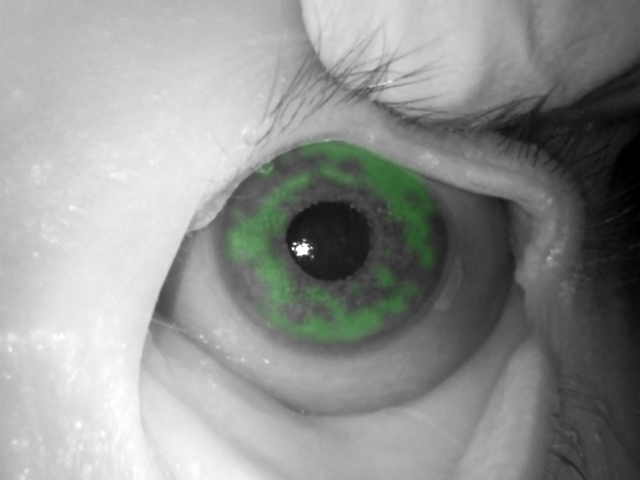
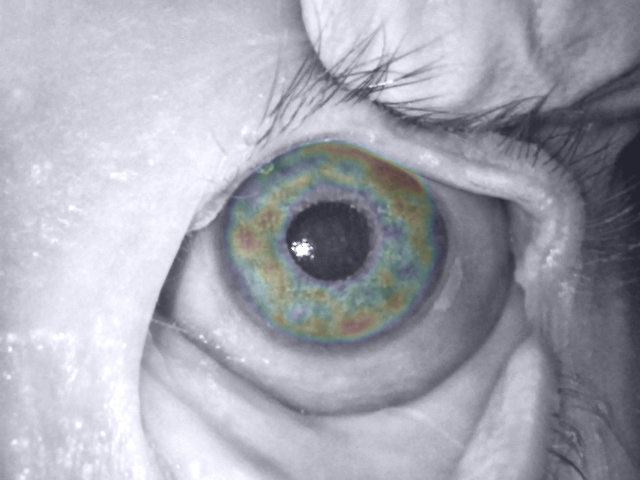
visualization finished

diff --git a/src-python/modules/irisRecognition.py b/src-python/modules/irisRecognition.py
@@ -41,6 +41,7 @@ class irisRecognition(object):
         self.pupil_iris_max_ratio = cfg["pupil_iris_max_ratio"]
         self.max_pupil_iris_shift = cfg["max_pupil_iris_shift"]
         self.visMinAgreedBits = cfg["vis_min_agreed_bits"]
+        self.vis_mode = cfg["vis_mode"]
 
         # Loading the CCNet
         self.CCNET_INPUT_SIZE = (320,240)
@@ -70,6 +71,7 @@ class irisRecognition(object):
         self.se = cv2.getStructuringElement(cv2.MORPH_ELLIPSE,(7,7))
         self.sk = cv2.getStructuringElement(cv2.MORPH_ELLIPSE,(15,15))
         self.ISO_RES = (640,480)
+        self.clahe = cv2.createCLAHE(clipLimit=3.0, tileGridSize=(16,16))
 
     def segment(self,image):
 
@@ -114,14 +116,6 @@ class irisRecognition(object):
 
         return imVis
 
-    def matchingVis(self,im,mask):
-
-        imVis = np.stack((np.array(im),)*3, axis=-1)
-        mask_blur = cv2.filter2D(mask,-1,self.sk)
-        mask_blur = (48 * mask_blur / np.max(mask_blur)).astype(int)
-        imVis[:,:,1] = np.clip(imVis[:,:,1] + mask_blur,0,255)
-
-        return imVis
 
     def circApprox(self,mask):
 
@@ -249,7 +243,9 @@ class irisRecognition(object):
     def polar(self,x,y):
         return math.hypot(x,y),math.degrees(math.atan2(y,x))
 
-    def visualizeMatchingResult(self, code1, code2, mask1, mask2, shift, pupil_xyr, iris_xyr):
+
+
+    def visualizeMatchingResult(self, code1, code2, mask1, mask2, shift, im, pupil_xyr, iris_xyr):
         
         resMask = np.zeros((self.ISO_RES[1],self.ISO_RES[0]))
 
@@ -262,7 +258,9 @@ class irisRecognition(object):
         andMasks = np.pad(andMasks, pad_width=((8,8),(0,0)), mode='constant', constant_values=0)
         heatMap = heatMap * andMasks
 
-        heatMap = (heatMap >= self.visMinAgreedBits / 100).astype(np.uint8)
+        if 'single' in self.vis_mode:
+            heatMap = (heatMap >= self.visMinAgreedBits / 100).astype(np.uint8)
+
         heatMap = np.roll(heatMap,int(self.polar_width/2),axis=1)
 
         for j in range(self.ISO_RES[0]):
@@ -281,6 +279,21 @@ class irisRecognition(object):
                     resMask[i,j] = heatMap[rr,tt] # *** TODO correct mapping for shifted p/i centers 
         
         heatMap = 255*cv2.morphologyEx(resMask, cv2.MORPH_OPEN, kernel=self.se)
+        mask_blur = cv2.filter2D(heatMap,-1,self.sk)
 
-        return heatMap
+        if 'single' in self.vis_mode:
+            mask_blur = (48 * mask_blur / np.max(mask_blur)).astype(int)
+            imVis = np.stack((np.array(im),)*3, axis=-1)
+            imVis[:,:,1] = np.clip(imVis[:,:,1] + mask_blur,0,255)
+        elif 'heat_map' in self.vis_mode:
+            mask_blur = (255 * mask_blur / np.max(mask_blur)).astype(int)
+            heatMap = np.uint8(np.stack((np.array(mask_blur),)*3, axis=-1))
+            heatMap = cv2.applyColorMap(heatMap, cv2.COLORMAP_JET)
+            cl_im = self.clahe.apply(np.array(im))
+            imVis = np.stack((cl_im,)*3, axis=-1)
+            imVis = cv2.addWeighted(heatMap, 0.1, np.array(imVis), 0.9, 32)
+        else:
+            raise Exception("Unknown visualization mode")
+
+        return imVis
 

diff --git a/src-python/howto_pair_with_visualization.py b/src-python/howto_pair_with_visualization.py
@@ -59,15 +59,12 @@ def main(cfg):
     score, shift = irisRec.matchCodes(code_list[0], code_list[1], polar_mask_list[0], polar_mask_list[1])
     print(score)
 
-    heatMap = irisRec.visualizeMatchingResult(code_list[0], code_list[1], polar_mask_list[0], polar_mask_list[1], shift, pupil_xyr_list[0], iris_xyr_list[0])
-    # cv2.imwrite("../dataProcessed/" + filename_list[0] + "_" + filename_list[1] + "_heatMap.png",heatMap)
+    # Visualization: heat map (most similar regions in red, least similar regions in blue)
+    imVis = irisRec.visualizeMatchingResult(code_list[0], code_list[1], polar_mask_list[0], polar_mask_list[1], shift, image_list[0], pupil_xyr_list[0], iris_xyr_list[0])
+    cv2.imwrite("../dataProcessed/" + filename_list[0] + "_HeatMapVis.png",imVis)
 
-    imVis = irisRec.matchingVis(image_list[0],heatMap)
-    cv2.imwrite("../dataProcessed/" + filename_list[0] + "_heatMapVis.png",imVis)
-
-    heatMap = irisRec.visualizeMatchingResult(code_list[0], code_list[1], polar_mask_list[0], polar_mask_list[1], shift, pupil_xyr_list[1], iris_xyr_list[1])
-    imVis = irisRec.matchingVis(image_list[1],heatMap)
-    cv2.imwrite("../dataProcessed/" + filename_list[1] + "_heatMapVis.png",imVis)
+    imVis = irisRec.visualizeMatchingResult(code_list[0], code_list[1], polar_mask_list[0], polar_mask_list[1], shift, image_list[1], pupil_xyr_list[1], iris_xyr_list[1])
+    cv2.imwrite("../dataProcessed/" + filename_list[1] + "_HeatMapVis.png",imVis)
 
     return None
 

diff --git a/src-python/howto.py b/src-python/howto.py
@@ -55,17 +55,7 @@ def main(cfg):
             if i < j:
                 score, shift = irisRec.matchCodes(code1, code2, mask1, mask2)
                 print("{} <-> {} : {:.3f} (mutual rot: {:.2f} deg)".format(fn1,fn2,score,360*shift/irisRec.polar_width))
-
-                b = irisRec.visualizeMatchingResult(code1, code2, mask1, mask2, shift)
-                cv2.imwrite("../dataProcessed/" + os.path.splitext(fn1)[0] + "_" + os.path.splitext(fn2)[0] + "_b.png",b)
-
-                '''
-                for k in range(7):
-                    a = 255*cc[:,:,k].astype(int)
-                    cv2.imwrite("../dataProcessed/" + os.path.splitext(fn1)[0] + "_" + os.path.splitext(fn2)[0] + "_code{}".format(k) + ".png",a)
-                '''
-
-
+     
     return None
 
 if __name__ == "__main__":
